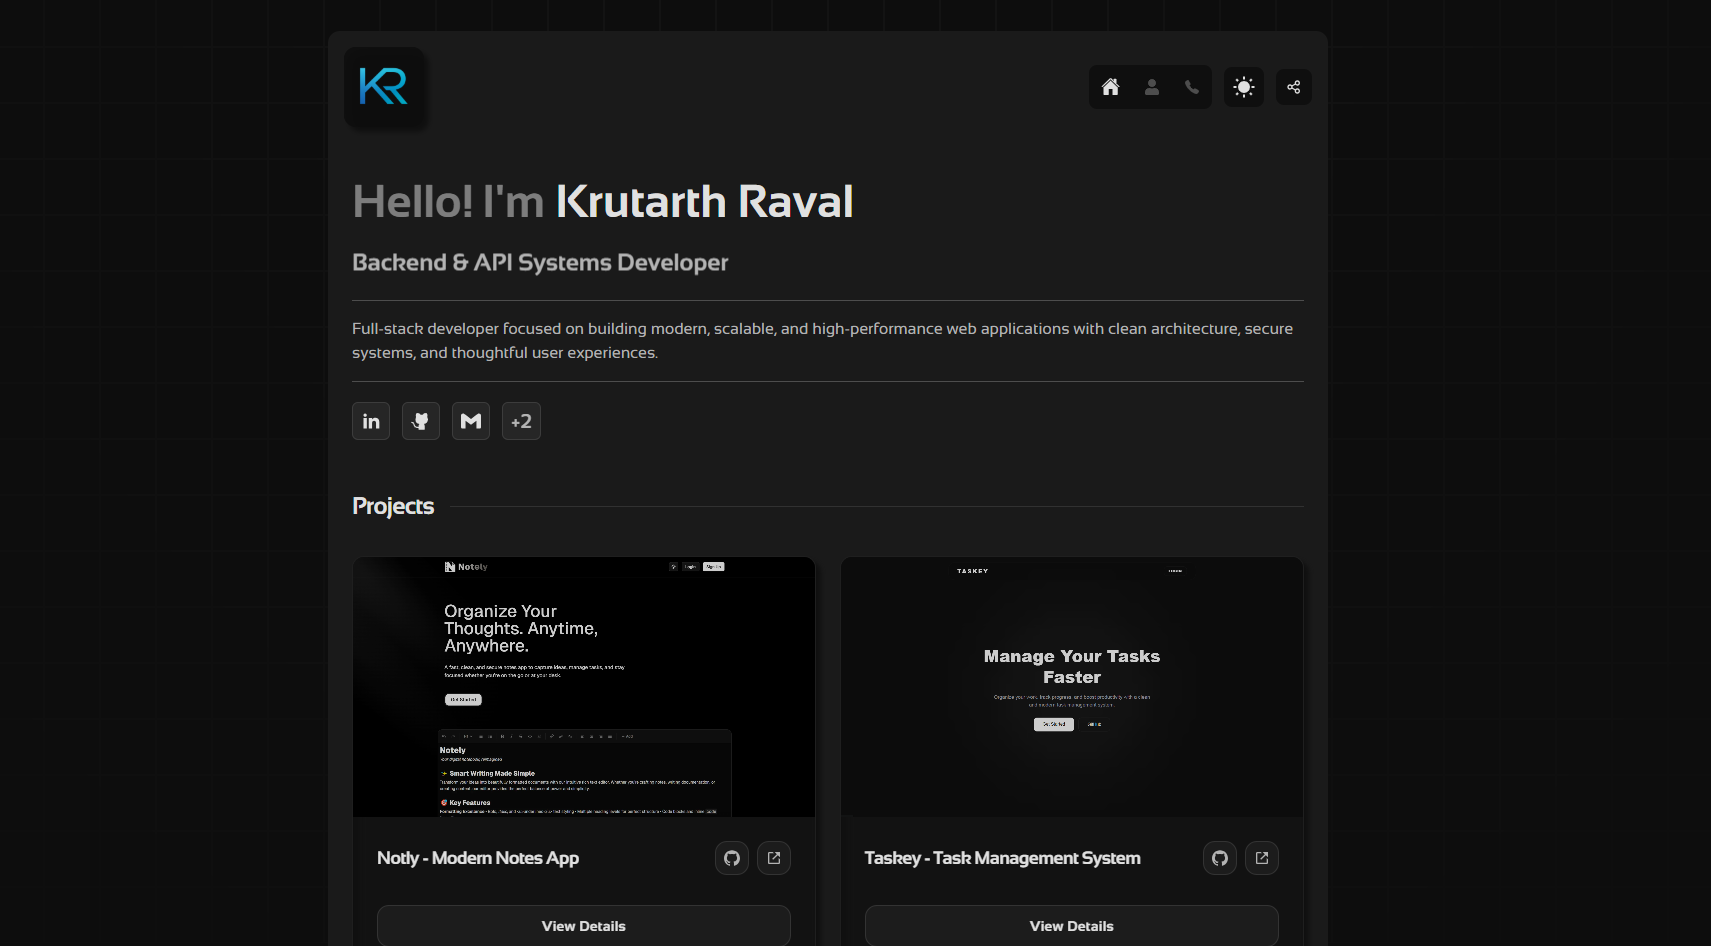
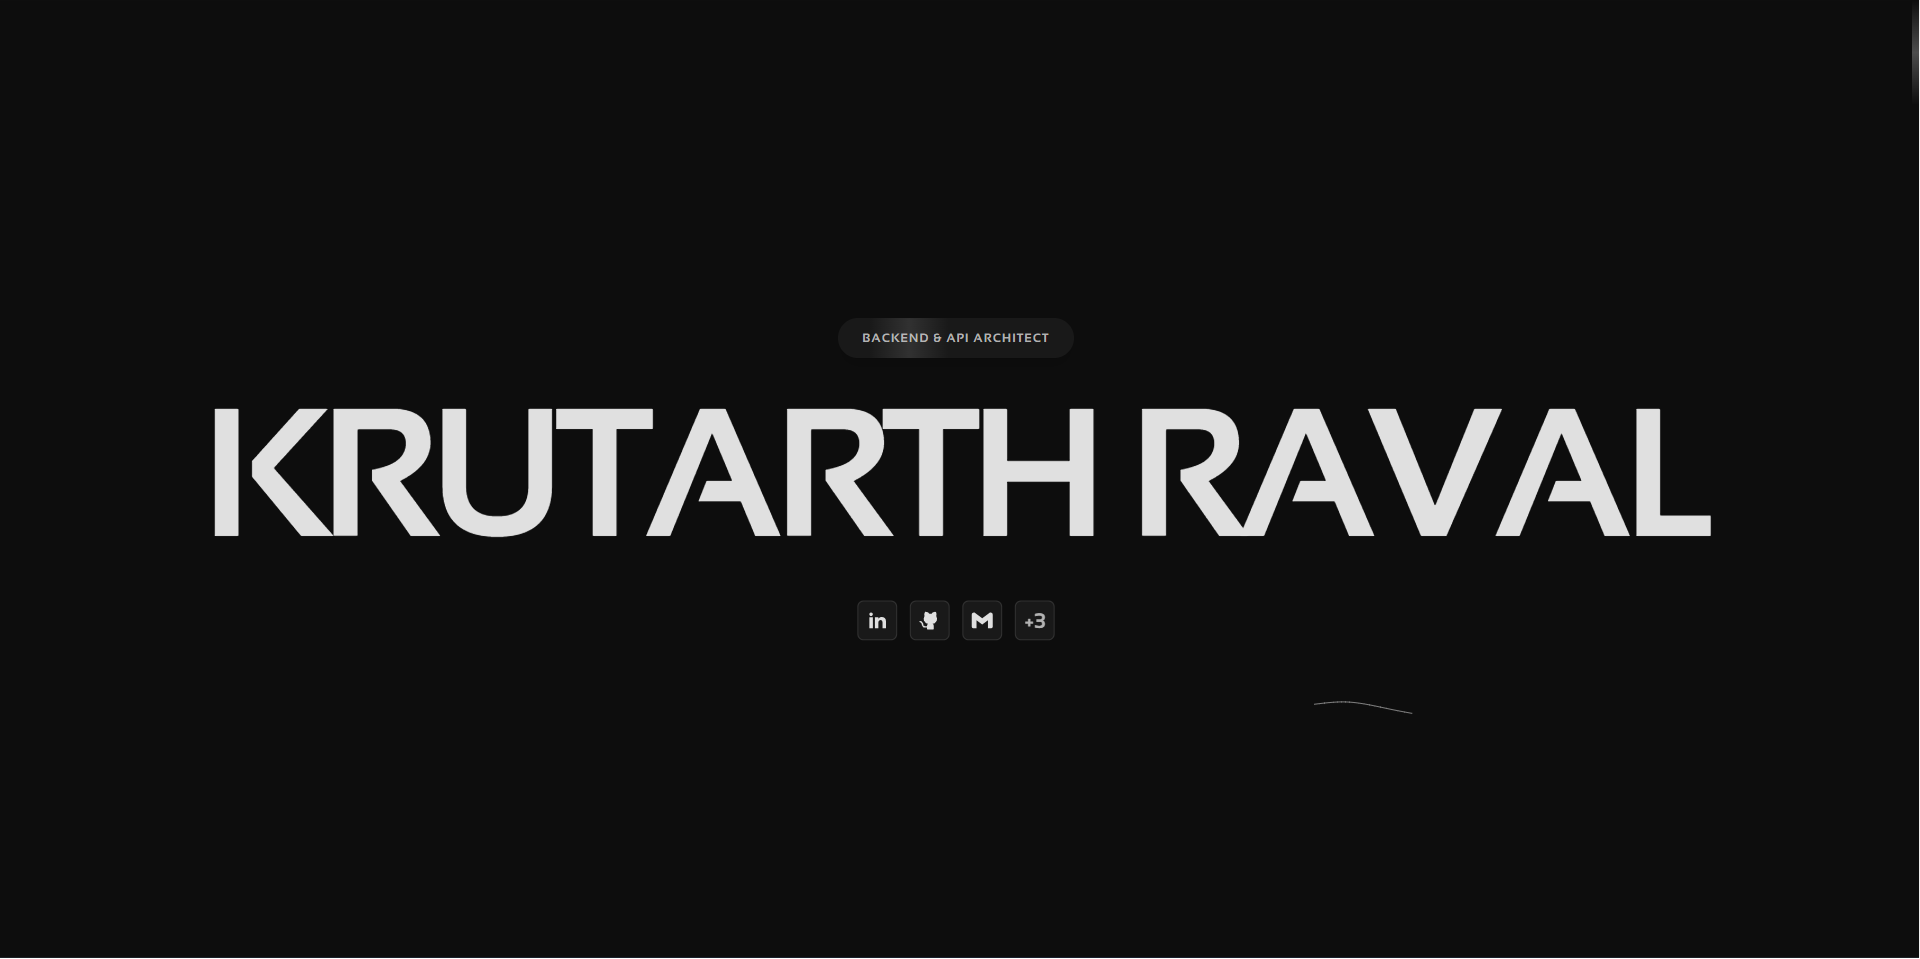
Update cursor trail and add Beatzy project details

diff --git a/src/UI/CursorTrail.jsx b/src/UI/CursorTrail.jsx
@@ -18,7 +18,7 @@ const CursorTrail = () => {
     canvas.height = height;
 
     const mouse = { x: width / 2, y: height / 2 };
-    const maxTrail = 40;
+    const maxTrail = 20;
     const points = Array.from({ length: maxTrail }, () => ({ x: mouse.x, y: mouse.y }));
 
     const onResize = () => {
@@ -64,8 +64,8 @@ const CursorTrail = () => {
       for (let i = 0; i < points.length - 1; i++) {
         const pt = points[i];
         const nextPt = points[i + 1];
-        // Calculate dynamic width based on index. Lowered multiplier to make the head thinner.
-        const lineWidth = Math.max((maxTrail - i) * 0.5, 0);
+        // Use a constant, very thin line width for the entire trail
+        const lineWidth = 0.5;
 
         ctx.lineWidth = lineWidth;
         ctx.beginPath();
